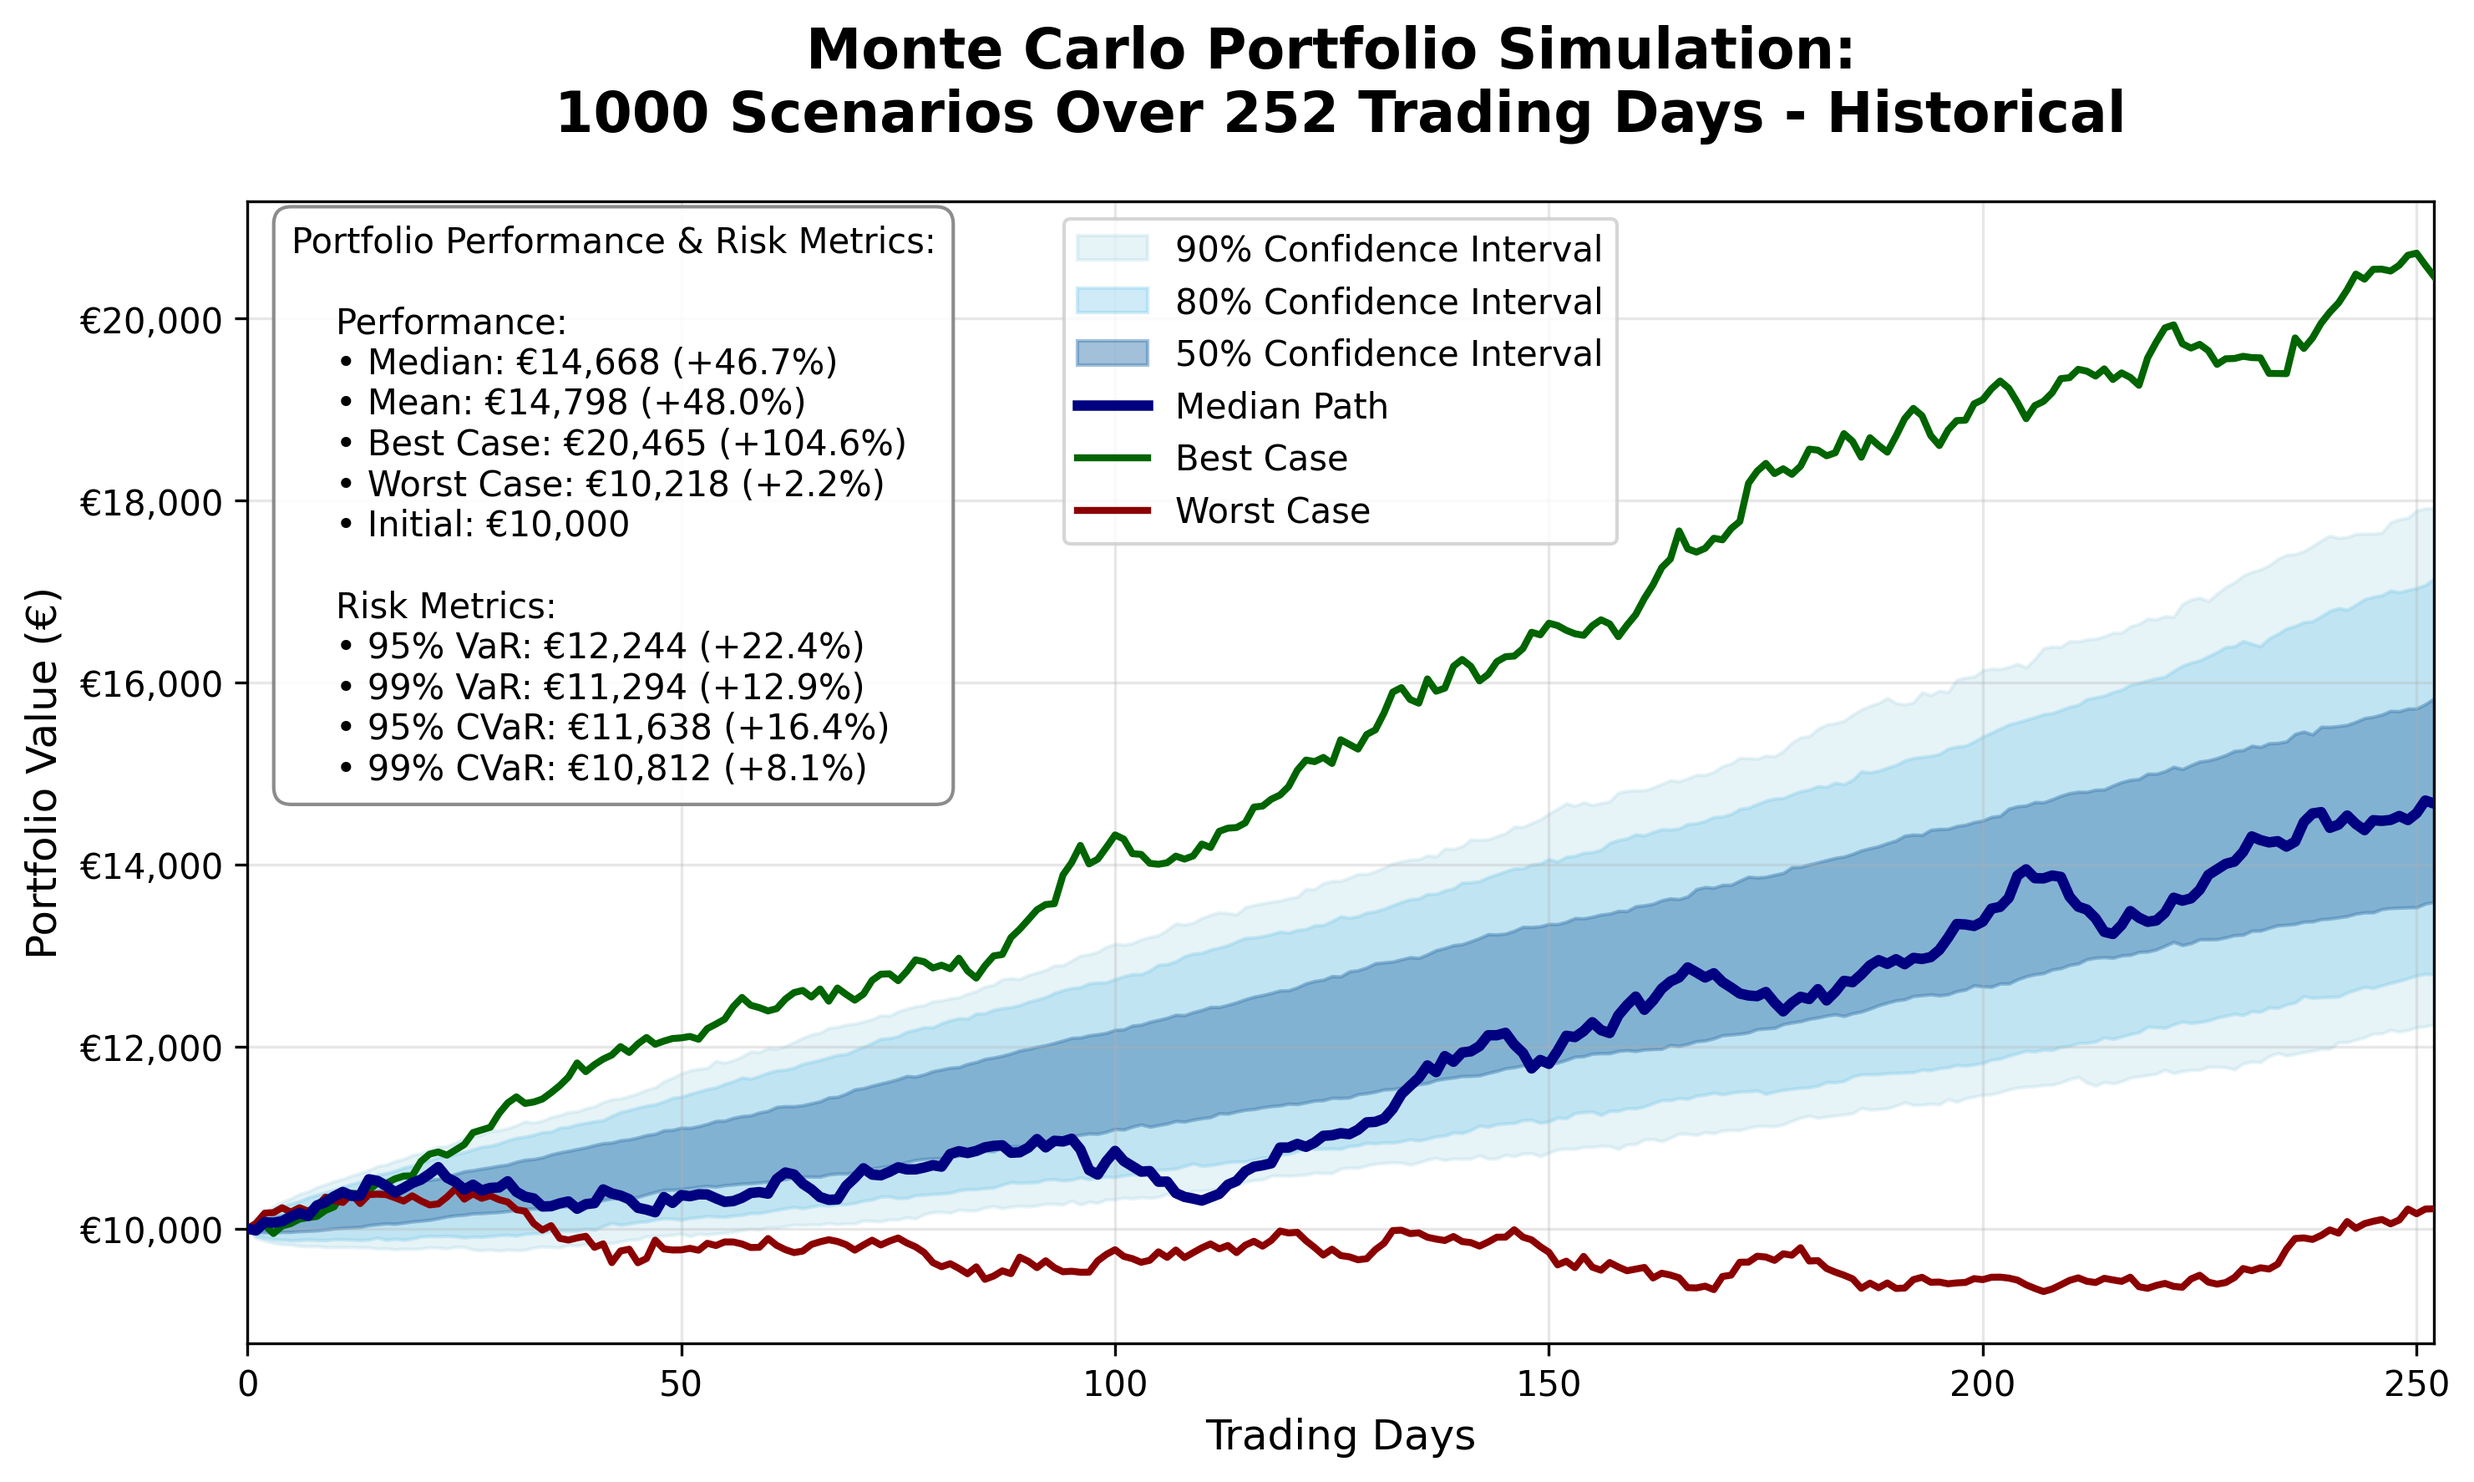
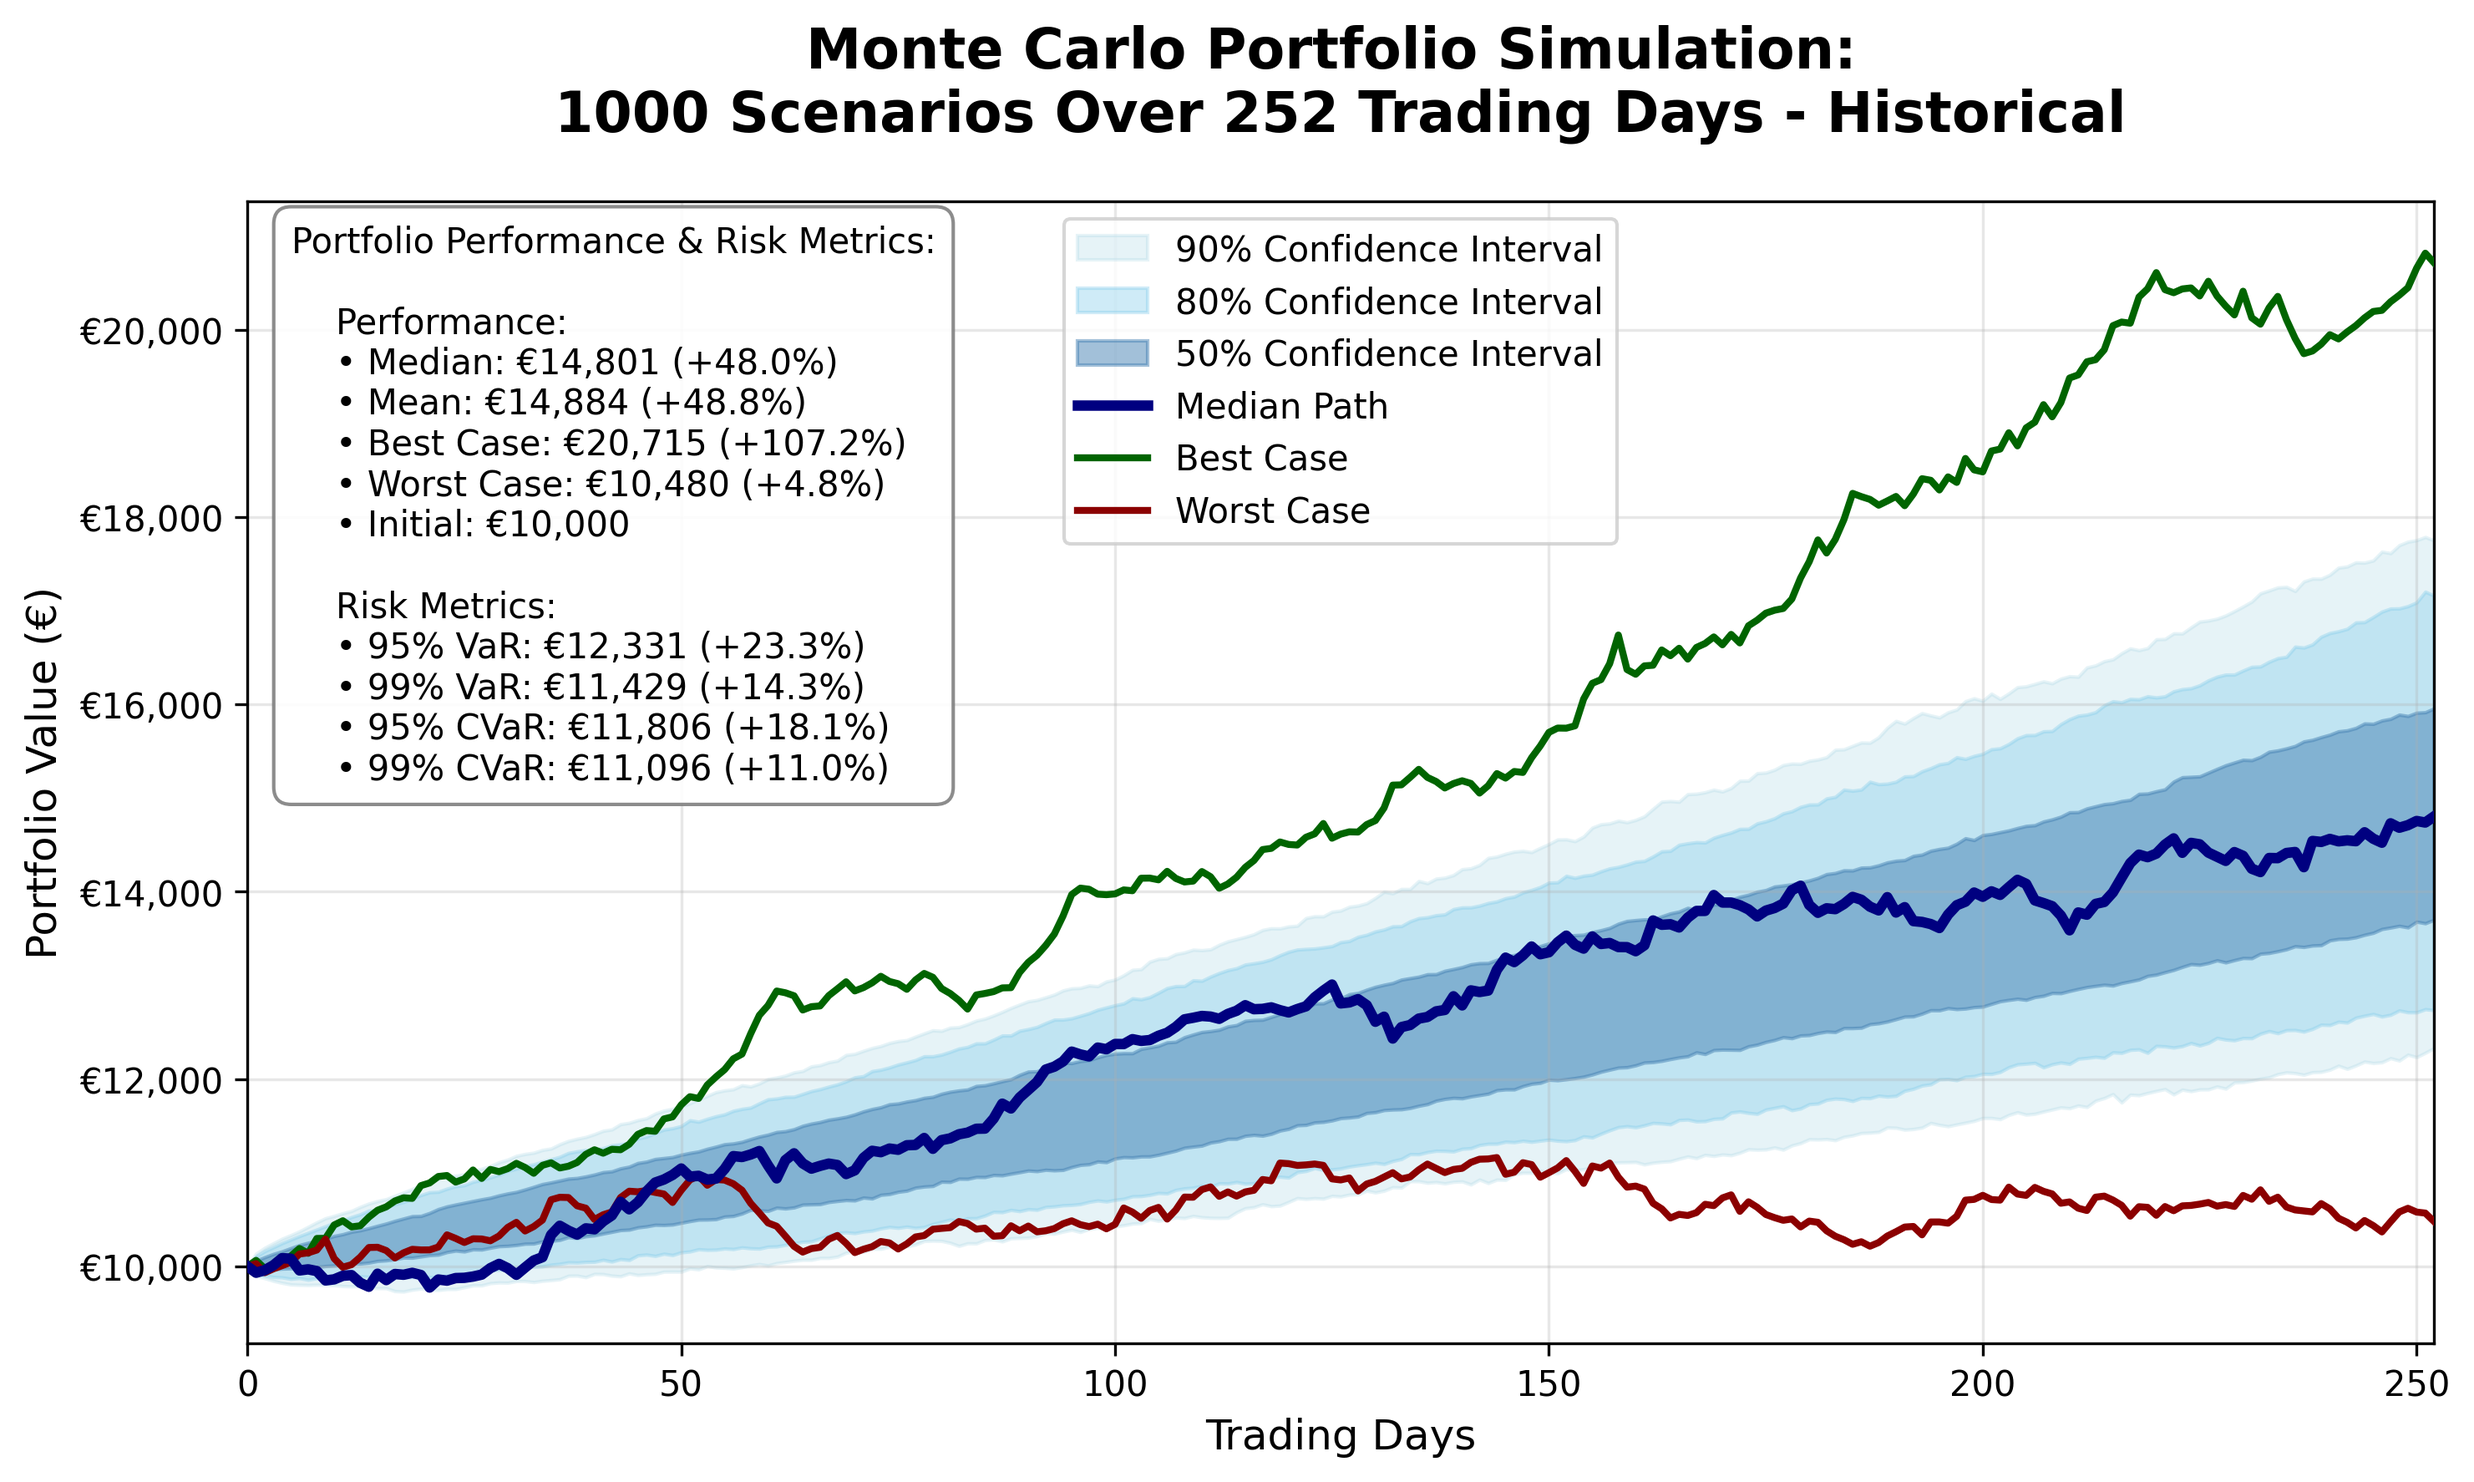
Add fiat debasement and geopolitical crisis simulation features
- Introduced new charts for correlation matrix and eigenvalue analysis specific to fiat debasement and geopolitical crisis scenarios, enhancing visualization capabilities.
- Updated `modify_portfolio_for_regime` function to adjust mean returns and covariance matrix based on macroeconomic regime factors, improving risk assessment accuracy.
- Added constants for regime names in `utils.py` for improved code clarity.
- Enhanced the main simulation logic in `main.py` to include detailed analysis and visualization for both regimes, facilitating better understanding of portfolio dynamics under different economic conditions.

diff --git a/src/main.py b/src/main.py
@@ -4,16 +4,23 @@ from portfolio import (
     FIAT_DEBASEMENT_REGIME,
 )
 from utils import (
+    FIAT_DEBASEMENT_REGIME_NAME,
+    GEOPOLITICAL_CRISIS_REGIME_NAME,
+    HISTORICAL,
     fetch_close_prices,
     transform_to_daily_returns_percent,
     calculate_mean_and_covariance,
 )
 from monte_carlo import (
     simulate_portfolio_paths,
-    modify_returns_for_regime,
+    modify_portfolio_for_regime,
     get_cov_matrix_analysis,
 )
-from visualization import plot_simulation_results
+from visualization import (
+    plot_correlation_heatmap,
+    plot_eigenvalues,
+    plot_simulation_results,
+)
 
 tickers, weights = get_portfolio()
 
@@ -21,30 +28,81 @@ close_values = fetch_close_prices(tickers)
 
 daily_returns = transform_to_daily_returns_percent(close_values)
 
-mean_historical_returns, cov_matrix = calculate_mean_and_covariance(daily_returns)
+# Historical regime: Baseline scenario using actual past returns and risk.
+historical_mean_returns, historical_cov_matrix = calculate_mean_and_covariance(
+    daily_returns
+)
 
 historical_paths = simulate_portfolio_paths(
-    mean_historical_returns, cov_matrix, weights
+    historical_mean_returns, historical_cov_matrix, weights
 )
 
-mean_fiat_debasement_returns = modify_returns_for_regime(
-    mean_historical_returns, tickers, FIAT_DEBASEMENT_REGIME
-)
-fiat_debasement_path = simulate_portfolio_paths(
-    mean_fiat_debasement_returns, cov_matrix, weights
+plot_simulation_results(historical_paths, HISTORICAL)
+
+historical_cov_matrix_analysis = get_cov_matrix_analysis(historical_cov_matrix)
+
+plot_correlation_heatmap(
+    historical_cov_matrix_analysis,
+    HISTORICAL,
 )
 
-mean_geopolitical_crisis_returns = modify_returns_for_regime(
-    mean_historical_returns,
-    tickers,
-    GEOPOLITICAL_CRISIS_REGIME,
-)
-geopolitical_crisis_path = simulate_portfolio_paths(
-    mean_geopolitical_crisis_returns, cov_matrix, weights
+plot_eigenvalues(
+    historical_cov_matrix_analysis,
+    HISTORICAL,
 )
 
-plot_simulation_results(historical_paths, "Historical")
-plot_simulation_results(fiat_debasement_path, "Fiat Debasement")
-plot_simulation_results(geopolitical_crisis_path, "Geopolitical Crisis")
 
-get_cov_matrix_analysis(cov_matrix)
+# Fiat debasement regime: Simulates strong inflation, BTC and gold outperform, risk-on environment.
+fiat_debasement_mean_returns, fiat_debasement_cov_matrix = modify_portfolio_for_regime(
+    historical_mean_returns, historical_cov_matrix, tickers, FIAT_DEBASEMENT_REGIME
+)
+
+fiat_debasement_paths = simulate_portfolio_paths(
+    fiat_debasement_mean_returns, fiat_debasement_cov_matrix, weights
+)
+
+plot_simulation_results(fiat_debasement_paths, FIAT_DEBASEMENT_REGIME_NAME)
+
+fiat_debasement_cov_matrix_analysis = get_cov_matrix_analysis(
+    fiat_debasement_cov_matrix
+)
+
+plot_correlation_heatmap(
+    fiat_debasement_cov_matrix_analysis,
+    FIAT_DEBASEMENT_REGIME_NAME,
+)
+
+plot_eigenvalues(
+    fiat_debasement_cov_matrix_analysis,
+    FIAT_DEBASEMENT_REGIME_NAME,
+)
+
+# Geopolitical crisis regime: Simulates global conflict, equities/EM down, gold/energy up, higher volatility.
+geopolitical_crisis_mean_returns, geopolitical_crisis_cov_matrix = (
+    modify_portfolio_for_regime(
+        historical_mean_returns,
+        historical_cov_matrix,
+        tickers,
+        GEOPOLITICAL_CRISIS_REGIME,
+    )
+)
+
+geopolitical_crisis_paths = simulate_portfolio_paths(
+    geopolitical_crisis_mean_returns, geopolitical_crisis_cov_matrix, weights
+)
+
+plot_simulation_results(geopolitical_crisis_paths, GEOPOLITICAL_CRISIS_REGIME_NAME)
+
+geopolitical_crisis_cov_matrix_analysis = get_cov_matrix_analysis(
+    geopolitical_crisis_cov_matrix
+)
+
+plot_correlation_heatmap(
+    geopolitical_crisis_cov_matrix_analysis,
+    GEOPOLITICAL_CRISIS_REGIME_NAME,
+)
+
+plot_eigenvalues(
+    geopolitical_crisis_cov_matrix_analysis,
+    GEOPOLITICAL_CRISIS_REGIME_NAME,
+)

diff --git a/src/portfolio.py b/src/portfolio.py
@@ -13,12 +13,12 @@ def get_portfolio():
 
 
 FIAT_DEBASEMENT_REGIME = {
-    "BTC-EUR": 1.2,  # 20% higher - inflation hedge
-    "4GLD.DE": 1.15,  # 15% higher - safe haven
-    "5MVW.DE": 1.1,  # 10% higher - weak fiat helps
-    "SPYL.DE": 0.9,  # 10% lower - higher rates hurt
-    "WMIN.DE": 1.15,  # 15% higher - commodity boom
-    "IS3N.DE": 1.1,  # 10% higher - weak fiat helps
+    "BTC-EUR": {"mean_factor": 1.3, "vol_factor": 1.1},  # BTC outperforms, stabilizes
+    "4GLD.DE": {"mean_factor": 1.15, "vol_factor": 1.05},  # Gold up, less than BTC
+    "5MVW.DE": {"mean_factor": 1.05, "vol_factor": 1.1},  # Energy mild outperformance
+    "SPYL.DE": {"mean_factor": 1.1, "vol_factor": 1.0},  # S&P up, vol unchanged
+    "WMIN.DE": {"mean_factor": 1.2, "vol_factor": 1.2},  # Miners up, more volatile
+    "IS3N.DE": {"mean_factor": 1.1, "vol_factor": 1.15},  # EM modest outperformance
 }
 
 GEOPOLITICAL_CRISIS_REGIME = {

diff --git a/src/utils.py b/src/utils.py
@@ -2,7 +2,9 @@ import yfinance as yf
 import os
 import matplotlib.pyplot as plt
 
+HISTORICAL = "Historical"
 GEOPOLITICAL_CRISIS_REGIME_NAME = "Geopolitical Crisis"
+FIAT_DEBASEMENT_REGIME_NAME = "Fiat Debasement"
 
 
 def fetch_close_prices(tickers, start="2022-01-01", end="2024-12-31"):
